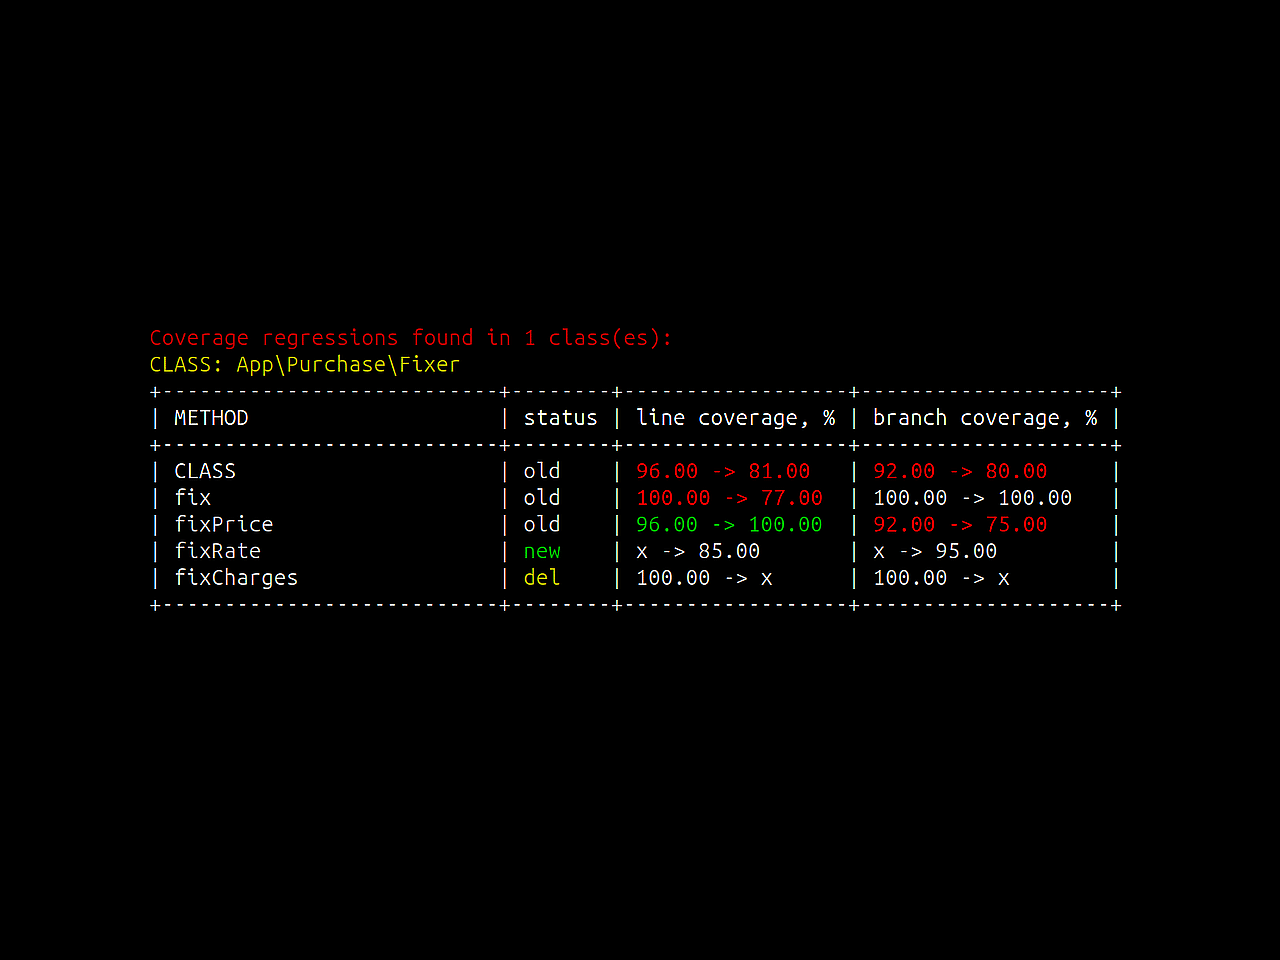
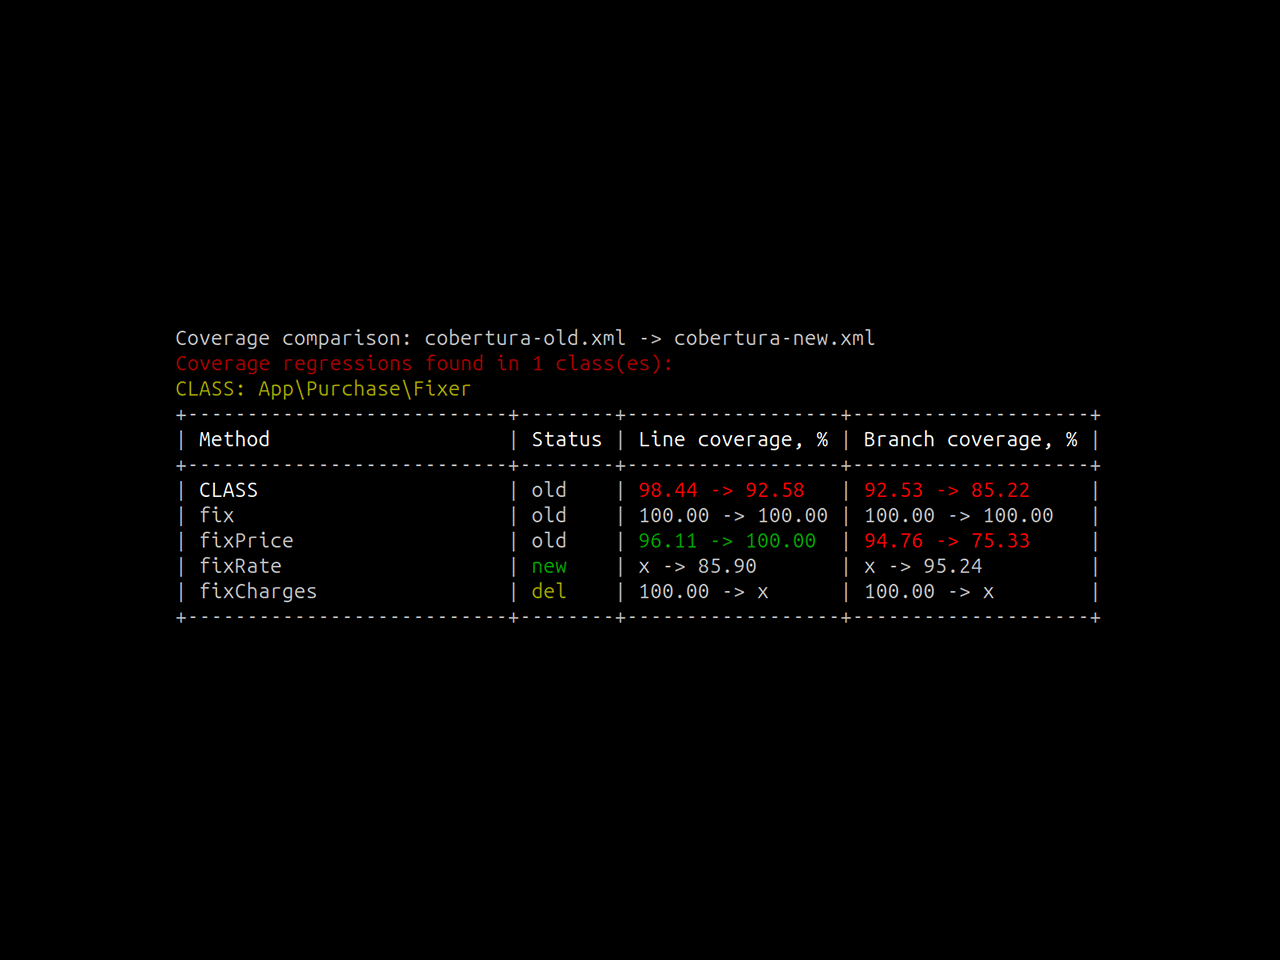
Update README.md

Changed region(s): [[0.125, 0.3438, 0.875, 0.6562], [0.8438, 0.625, 0.875, 0.6562], [0.8438, 0.5625, 0.875, 0.5938]]

diff --git a/README.md b/README.md
@@ -49,17 +49,16 @@ Coverage comparison: cobertura-old.xml -> cobertura-new.xml
 Coverage regressions found in 1 class(es):
 CLASS: App\Purchase\Fixer
 +---------------------------+--------+------------------+--------------------+
-| METHOD                    | status | line coverage, % | branch coverage, % |
+| Method                    | Status | Line coverage, % | Branch coverage, % |
 +---------------------------+--------+------------------+--------------------+
-| CLASS                     | old    | 100.00 -> 55.46  | 100.00 -> 57.13    |
+| CLASS                     | old    | 98.44 -> 92.58   | 92.53 -> 85.22     |
 | fix                       | old    | 100.00 -> 100.00 | 100.00 -> 100.00   |
-| fixCharges                | old    | 100.00 -> 95.11  | 100.00 -> 80.78    |
-| fixPrice                  | old    | 100.00 -> 75.23  | 100.00 -> 66.89    |
-| fixVat                    | new    | x -> 53.53       | x -> 44.11         |
-| fixRate                   | del    | 100.00 -> x      | 100.00 -> x        |
+| fixPrice                  | old    | 96.11 -> 100.00  | 94.76 -> 75.33     |
+| fixRate                   | new    | x -> 85.90       | x -> 95.24         |
+| fixCharges                | del    | 100.00 -> x      | 100.00 -> x        |
 +---------------------------+--------+------------------+--------------------+
 
-Exit code: 2, Time: 569 ms, Memory: 13.41/20.00 MiB.
+Exit code: 2. Time: 6 ms. Memory: 1.40/2.00 MiB.
 ```
 
 Columns in the table:
